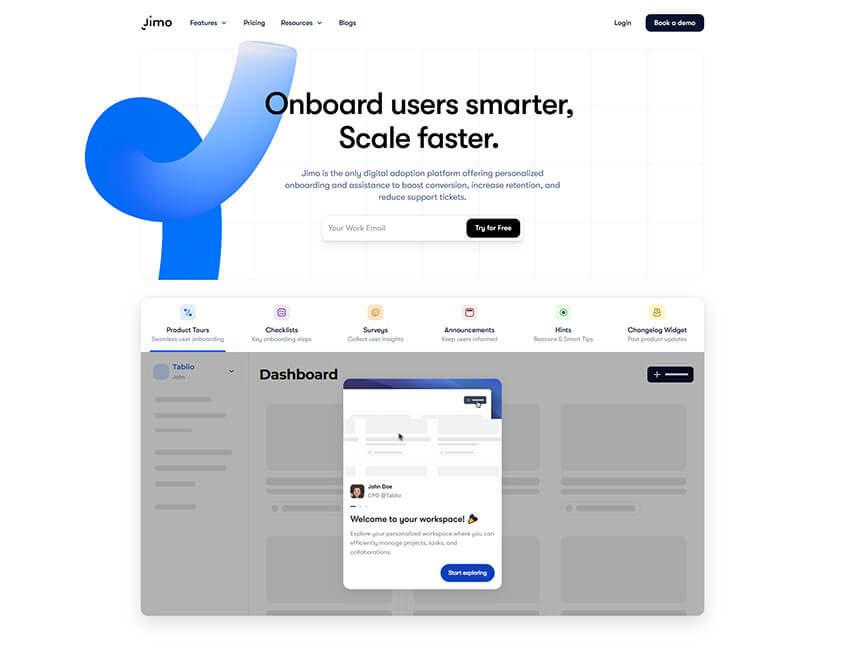
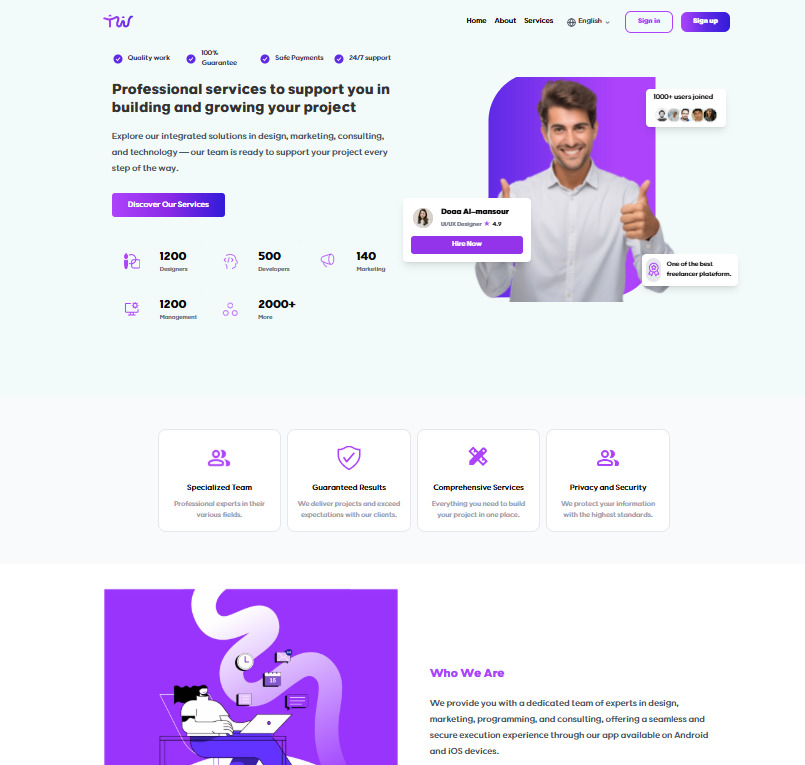
Enhancing the sections

diff --git a/components/Home/Projects/Projects.tsx b/components/Home/Projects/Projects.tsx
@@ -8,31 +8,32 @@ import { motion } from "framer-motion";
 const projects = [
   {
     title: "Team Work Platform",
-    description: "Full-stack freelance dashboard built with Next.js.",
+    description:
+      "freelance Website for provider built with Next.js and React Components.",
     image: "/images/p1.jpg",
     url: "https://www.team-work.co/",
-    tags: "Dashboard , Freelance",
+    tags: "Dashboard , Freelance, Next.js , React Components ",
   },
   {
     title: "Personal Portfolio",
     description: "Responsive portfolio built using Next.js and Tailwind CSS.",
-    image: "/images/p1.jpg",
+    image: "/images/p6.jpg",
     url: "https://your-portfolio.vercel.app/",
     tags: "Next.js , React Component , Tailwind , Portfolio",
   },
   {
     title: "Contracts Platform",
     description: "Contract web platform using React for frontend.",
-    image: "/images/p2.jpg",
-    url: "https://ooqood.com/",
-    tags: "React , Dashboard",
+    image: "/images/p5.jpg",
+    url: "#",
+    tags: "React",
   },
   {
     title: "Crop Management App",
     description: "Frontend dashboard for managing crop data.",
     image: "/images/p3.jpg",
     url: "#",
-    tags: "React , Agriculture",
+    tags: "React , Dashboard",
   },
   {
     title: "Book Library",

diff --git a/components/Helper/ScrollToTop.tsx b/components/Helper/ScrollToTop.tsx
@@ -1,0 +1,40 @@
+"use client";
+import React, { useEffect, useState } from "react";
+import { FaArrowUp } from "react-icons/fa";
+
+const ScrollToTop = () => {
+  const [isVisible, setIsVisible] = useState(false);
+
+  // Show and hide scroll to top button based on scroll position
+  useEffect(() => {
+    const toggleVisibility = () => {
+      if (window.scrollY > 300) setIsVisible(true);
+      else setIsVisible(false);
+    };
+    window.addEventListener("scroll", toggleVisibility);
+    return () => window.removeEventListener("scroll", toggleVisibility);
+  }, []);
+
+  const scrollToTop = () => {
+    window.scrollTo({
+      top: 0,
+      behavior: "smooth",
+    });
+  };
+
+  return (
+    <div className="fixed bottom-4 animate-pulse right-4">
+      {isVisible && (
+        <button
+          className="bg-blue-950/60 cursor-pointer text-white rounded-full w-12 h-12 flex items-center justify-center
+          focus:outline-none"
+          onClick={scrollToTop}
+        >
+          <FaArrowUp />
+        </button>
+      )}
+    </div>
+  );
+};
+
+export default ScrollToTop;

diff --git a/components/Home/Hero/Hero.tsx b/components/Home/Hero/Hero.tsx
@@ -7,6 +7,13 @@ import ParticlesHero from "./ParticleBackground";
 import { motion } from "framer-motion";
 
 const Hero = () => {
+  const handleScroll = () => {
+    const section = document.getElementById("projects");
+    if (section) {
+      section.scrollIntoView({ behavior: "smooth" });
+    }
+  };
+
   return (
     <div
       id="home"
@@ -77,6 +84,7 @@ const Hero = () => {
           transition={{ duration: 0.5, delay: 1 }}
           className="mt-6 px-10 py-4 bg-blue-800 hover:bg-blue-900 transition-all duration-300 cursor-pointer
          rounded-full text-lg font-medium flex items-center"
+          onClick={handleScroll}
         >
           <span>See My Work</span>
           <BsArrowRight className="w-5 h-5 ml-2" />
